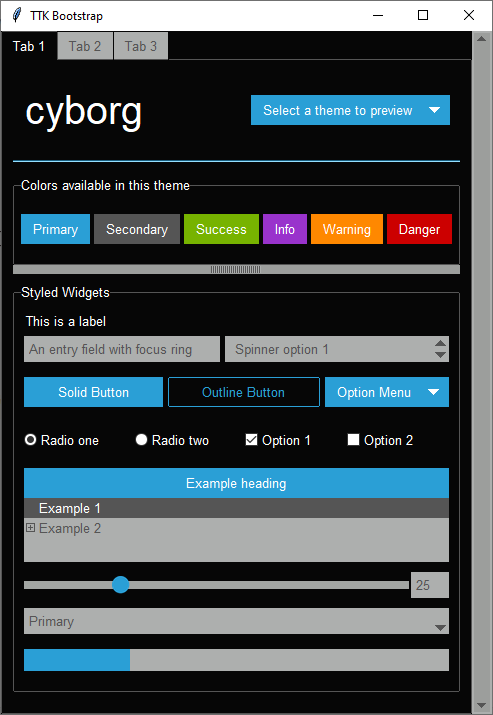
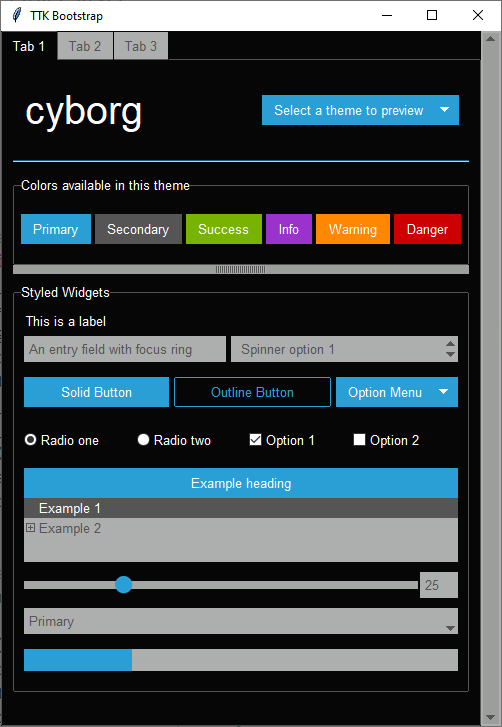
update theme images per arrow size changes

diff --git a/src/ttkbootstrap/demo.py b/src/ttkbootstrap/demo.py
@@ -20,6 +20,7 @@ class Demo(Style):
         super().__init__()
         self.theme_use('lumen')
         self.root = self.master
+        #self.root.geometry('500x695')
         self.root.protocol("WM_DELETE_WINDOW", self.quit)
         self.root.title('TTK Bootstrap')
         self.theme_name = tkinter.StringVar()
@@ -48,6 +49,7 @@ class Demo(Style):
         standard tk widgets, I've choosing to redraw all the widgets in the main tab. You can use other methods or
         avoid this altogether if you're not switch between light and dark themes.
         """
+        # print(self.root.winfo_width(), self.root.winfo_height())
         self.tab.destroy()
         self.theme_use(new_theme)
         self.tab = self.create_themed_tab()

diff --git a/setup.py b/setup.py
@@ -15,7 +15,7 @@ the ability to easily create your own.
 
 setuptools.setup(
     name="ttkbootstrap",
-    version="0.0.33",
+    version="0.0.37",
     author="Israel Dryer",
     author_email="israel.dryer@gmail.com",
     description="A collection of modern ttk themes inspired by Bootstrap",

diff --git a/src/ttkcreator/__init__.py b/src/ttkcreator/__init__.py
@@ -313,7 +313,7 @@ class CreatorDesignWindow(tk.Toplevel):
         img = ImageGrab.grab(bbox=bbox)
 
         # image name
-        filename = f'../docs/images/ttkcreator.png'
+        filename = f'docs/images/ttkcreator.png'
         print(filename)
         img.save(filename, 'png')
 
